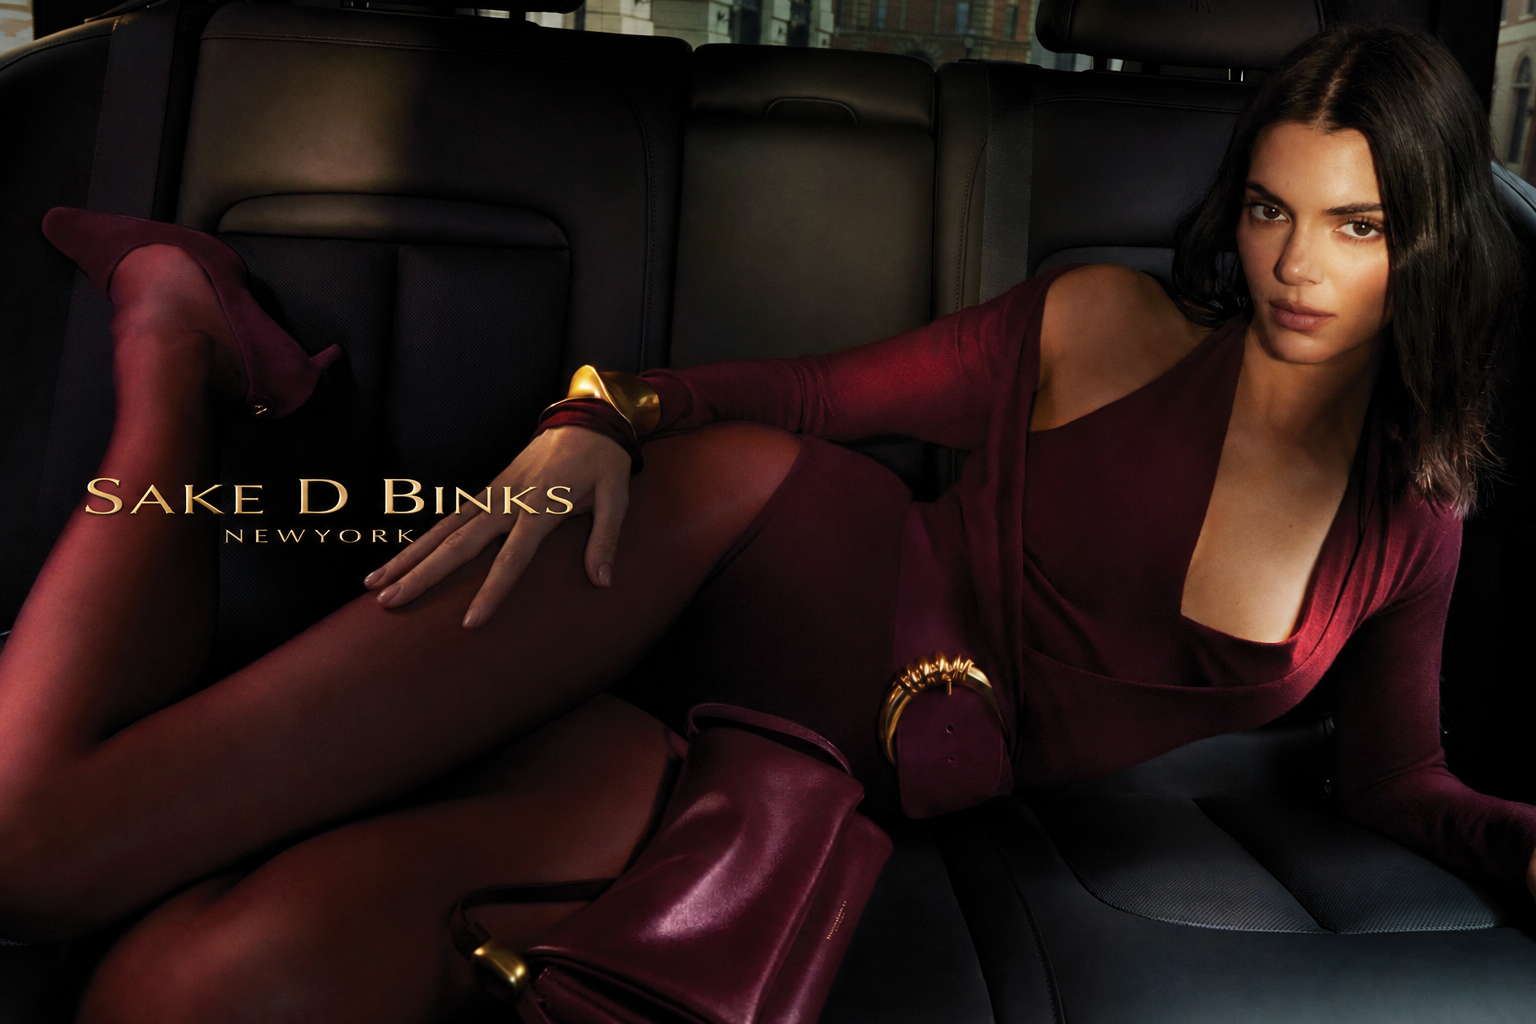
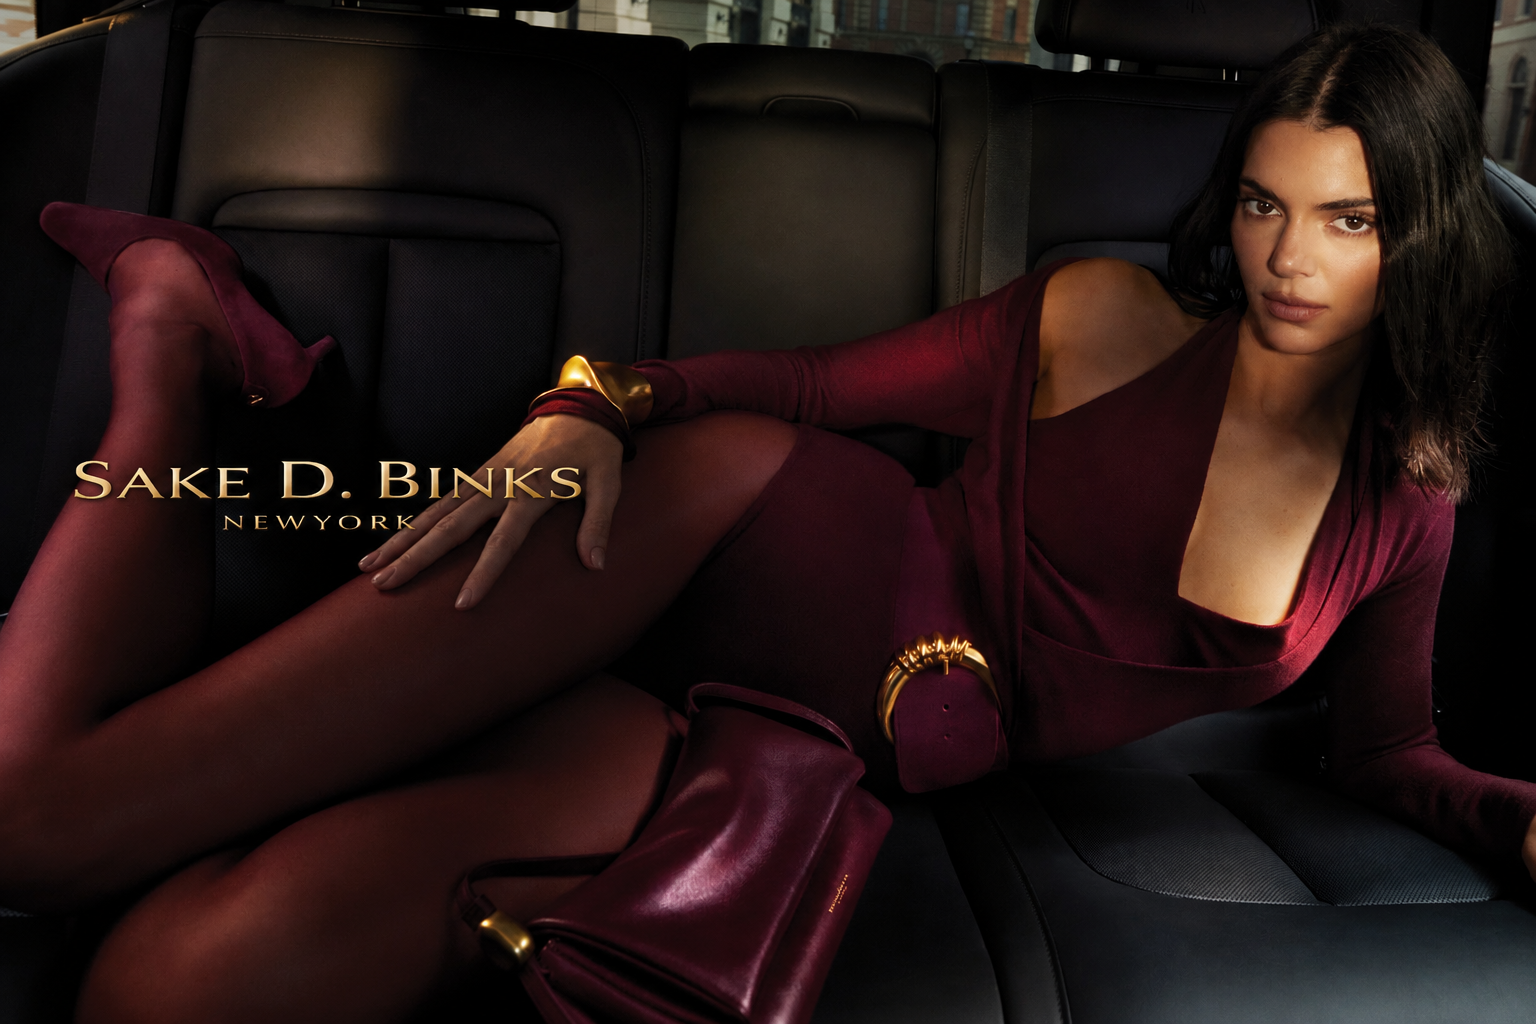
Actualizacion fotos y blogs

diff --git a/js/paginas.js b/js/paginas.js
@@ -120,13 +120,13 @@ const articles = {
     },
     armario: { 
         category: 'Moda', 
-        title: 'Donna Karan New York elige a Kendall Jenner', 
+        title: 'Sake D Binks New York elige a Kendall Jenner', 
         image: 'Imagenes/NoticiaK1.png', 
         content: [
-            'Donna Karan New York ha fichado a Kendall Jenner para su campaña de otoño 2026. Fotografiada por Mert Alas, Jenner debuta como imagen de la marca en enclaves emblemáticos de Nueva York. El concepto recupera la idea de una campaña de finales de los años ochenta de Donna Karan, firmada por Dennis Piel y protagonizada por la modelo Rosemary McGrotha, que daba voz a sus pensamientos mientras llegaba a Nueva York en una limusina.',
+            'Sake D Binks New York ha fichado a Kendall Jenner para su campaña de otoño 2026. Fotografiada por Mert Alas, Jenner debuta como imagen de la marca en enclaves emblemáticos de Nueva York. El concepto recupera la idea de una campaña de finales de los años ochenta de Sake D Binks, firmada por Dennis Piel y protagonizada por la modelo Rosemary McGrotha, que daba voz a sus pensamientos mientras llegaba a Nueva York en una limusina.',
             'Para otoño 2026, esa premisa se reinterpreta a través de Jenner, que imagina tener Nueva York por completo para ella sola. La campaña transcurre dentro y fuera de un coche, con Jenner recorriendo la ciudad en una serie de escenas cinematográficas que contraponen glamour y actitud.',
-            '"Donna Karan siempre ha encarnado la confianza y una sofisticación sin esfuerzo, cualidades con las que conecto de verdad. Formar parte de la campaña de otoño 2026 fue como celebrar la energía de Nueva York y a una mujer que conoce su estilo y acepta abiertamente quien es", afirmó Jenner.',
-            'Entre las piezas clave de la colección que aparecen en la campaña figura el ya clásico body de Donna Karan, rescatado de los archivos de la marca y reimaginado para otoño 2026. Jenner luce también una chaqueta y una falda de punto de lana drapeadas, superpuestas bajo un abrigo de cuero, un traje de terciopelo a medida y una chaqueta y falda de inspiración aviador en un profundo marrón espresso.',
+            '"Sake D Binks siempre ha encarnado la confianza y una sofisticación sin esfuerzo, cualidades con las que conecto de verdad. Formar parte de la campaña de otoño 2026 fue como celebrar la energía de Nueva York y a una mujer que conoce su estilo y acepta abiertamente quien es", afirmó Jenner.',
+            'Entre las piezas clave de la colección que aparecen en la campaña figura el ya clásico body de Sake D Binks, rescatado de los archivos de la marca y reimaginado para otoño 2026. Jenner luce también una chaqueta y una falda de punto de lana drapeadas, superpuestas bajo un abrigo de cuero, un traje de terciopelo a medida y una chaqueta y falda de inspiración aviador en un profundo marrón espresso.',
             `<div class="stacked-images">
                 <img src="Imagenes/NoticiaK2.jpg" alt="Desfile foto 1">
             </div>`,

diff --git a/SeccionAccesorios.html b/SeccionAccesorios.html
@@ -49,7 +49,7 @@
             <section id="bolsos" class="category-section">
                 <div class="editorial-container">
                     <article class="editorial-product">
-                        <a href="detalle-producto.html?name=BOLSO%20DE%20CUERO%20MINIMALIST&price=89.990%20CLP&img1=Imagenes/Bolso1.jpg&img2=Imagenes/Bolso2.jpg" class="product-link-group">
+                        <a href="detalle-producto.html?name=PACK%202%20COLLARES%20COMBINADOS%20LUNA%20ESTRELLAS&price=29.990%20CLP&color=ORO/PLATA&thumb1=Imagenes/collares2.jpg&img1=Imagenes/collares.jpg&img2=Imagenes/collares2.jpg" class="product-link-group">
                             <div class="editorial-duo">
                                 <div class="duo-item">
                                     <img src="Imagenes/collares.jpg" alt="Bolso Vista Frontal">

diff --git a/blogs.html b/blogs.html
@@ -61,8 +61,8 @@
                 </a>
                 <div class="blog-card-content">
                     <span class="eyebrow">Moda</span>
-                    <h2>Donna Karan New York elige a Kendall Jenner como imagen de su campaña para este otoño</h2>
-                    <p>Donna Karan New York ha fichado a Kendall Jenner para su campaña de otoño 2026.</p>
+                    <h2>Sake D Binks New York elige a Kendall Jenner como imagen de su campaña para este otoño</h2>
+                    <p>Sake D Binks New York ha fichado a Kendall Jenner para su campaña de otoño 2026.</p>
                     <a class="text-link" href="blog-detalle.html?id=armario">Leer artículo</a>
                 </div>
             </article>
